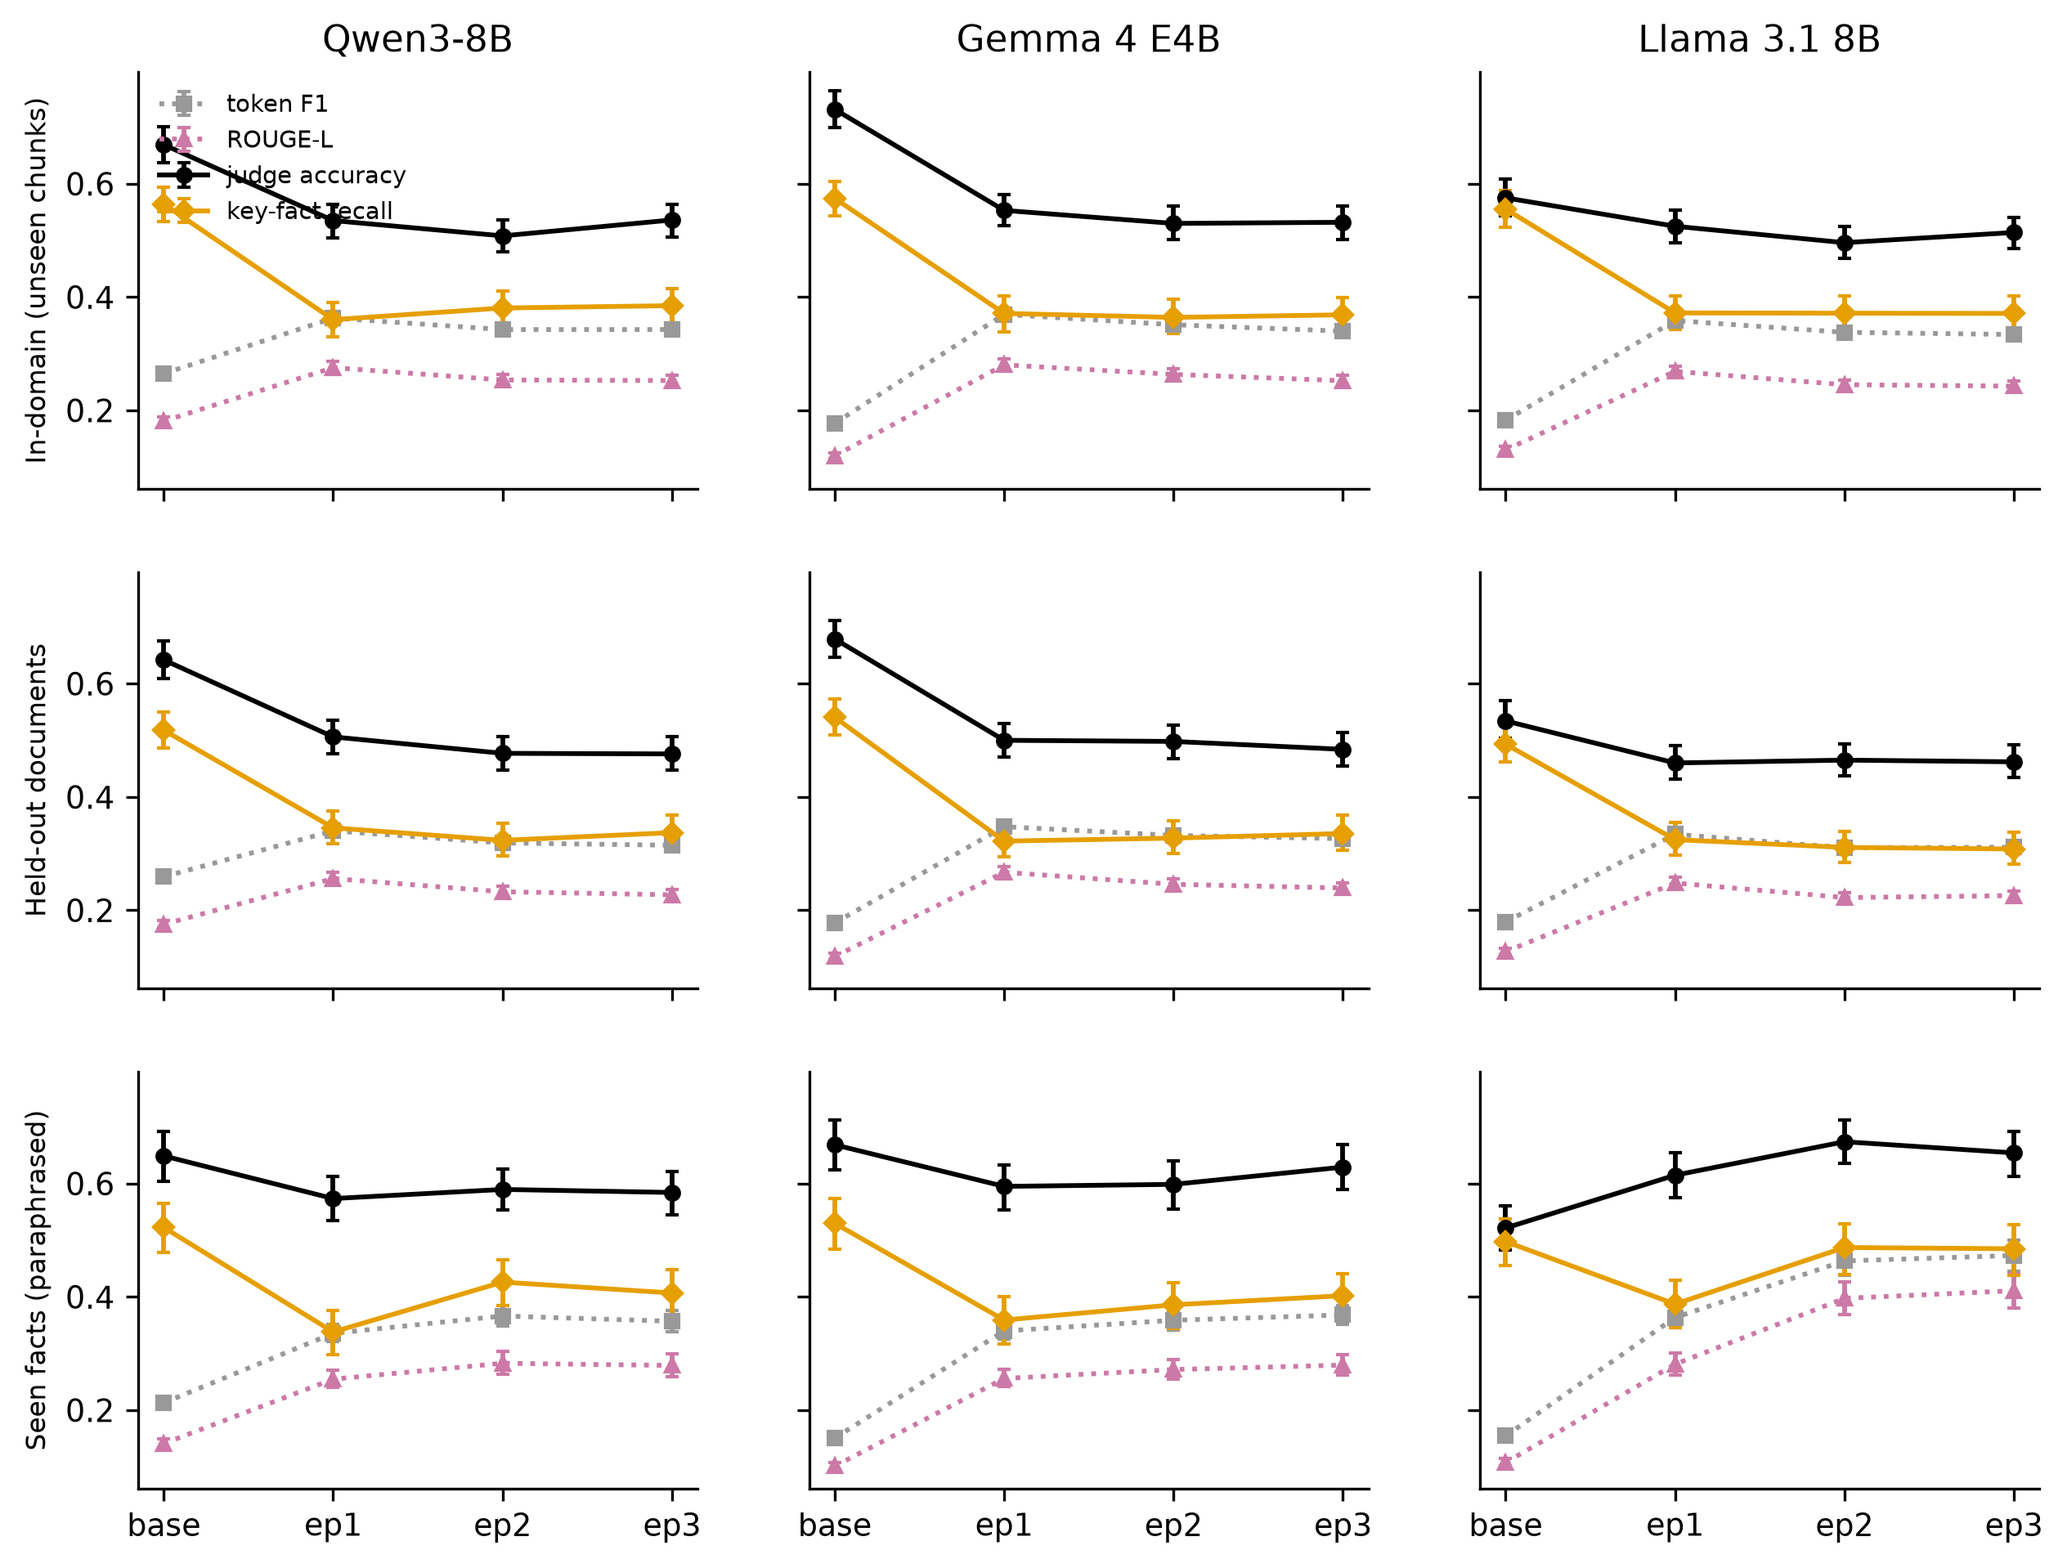
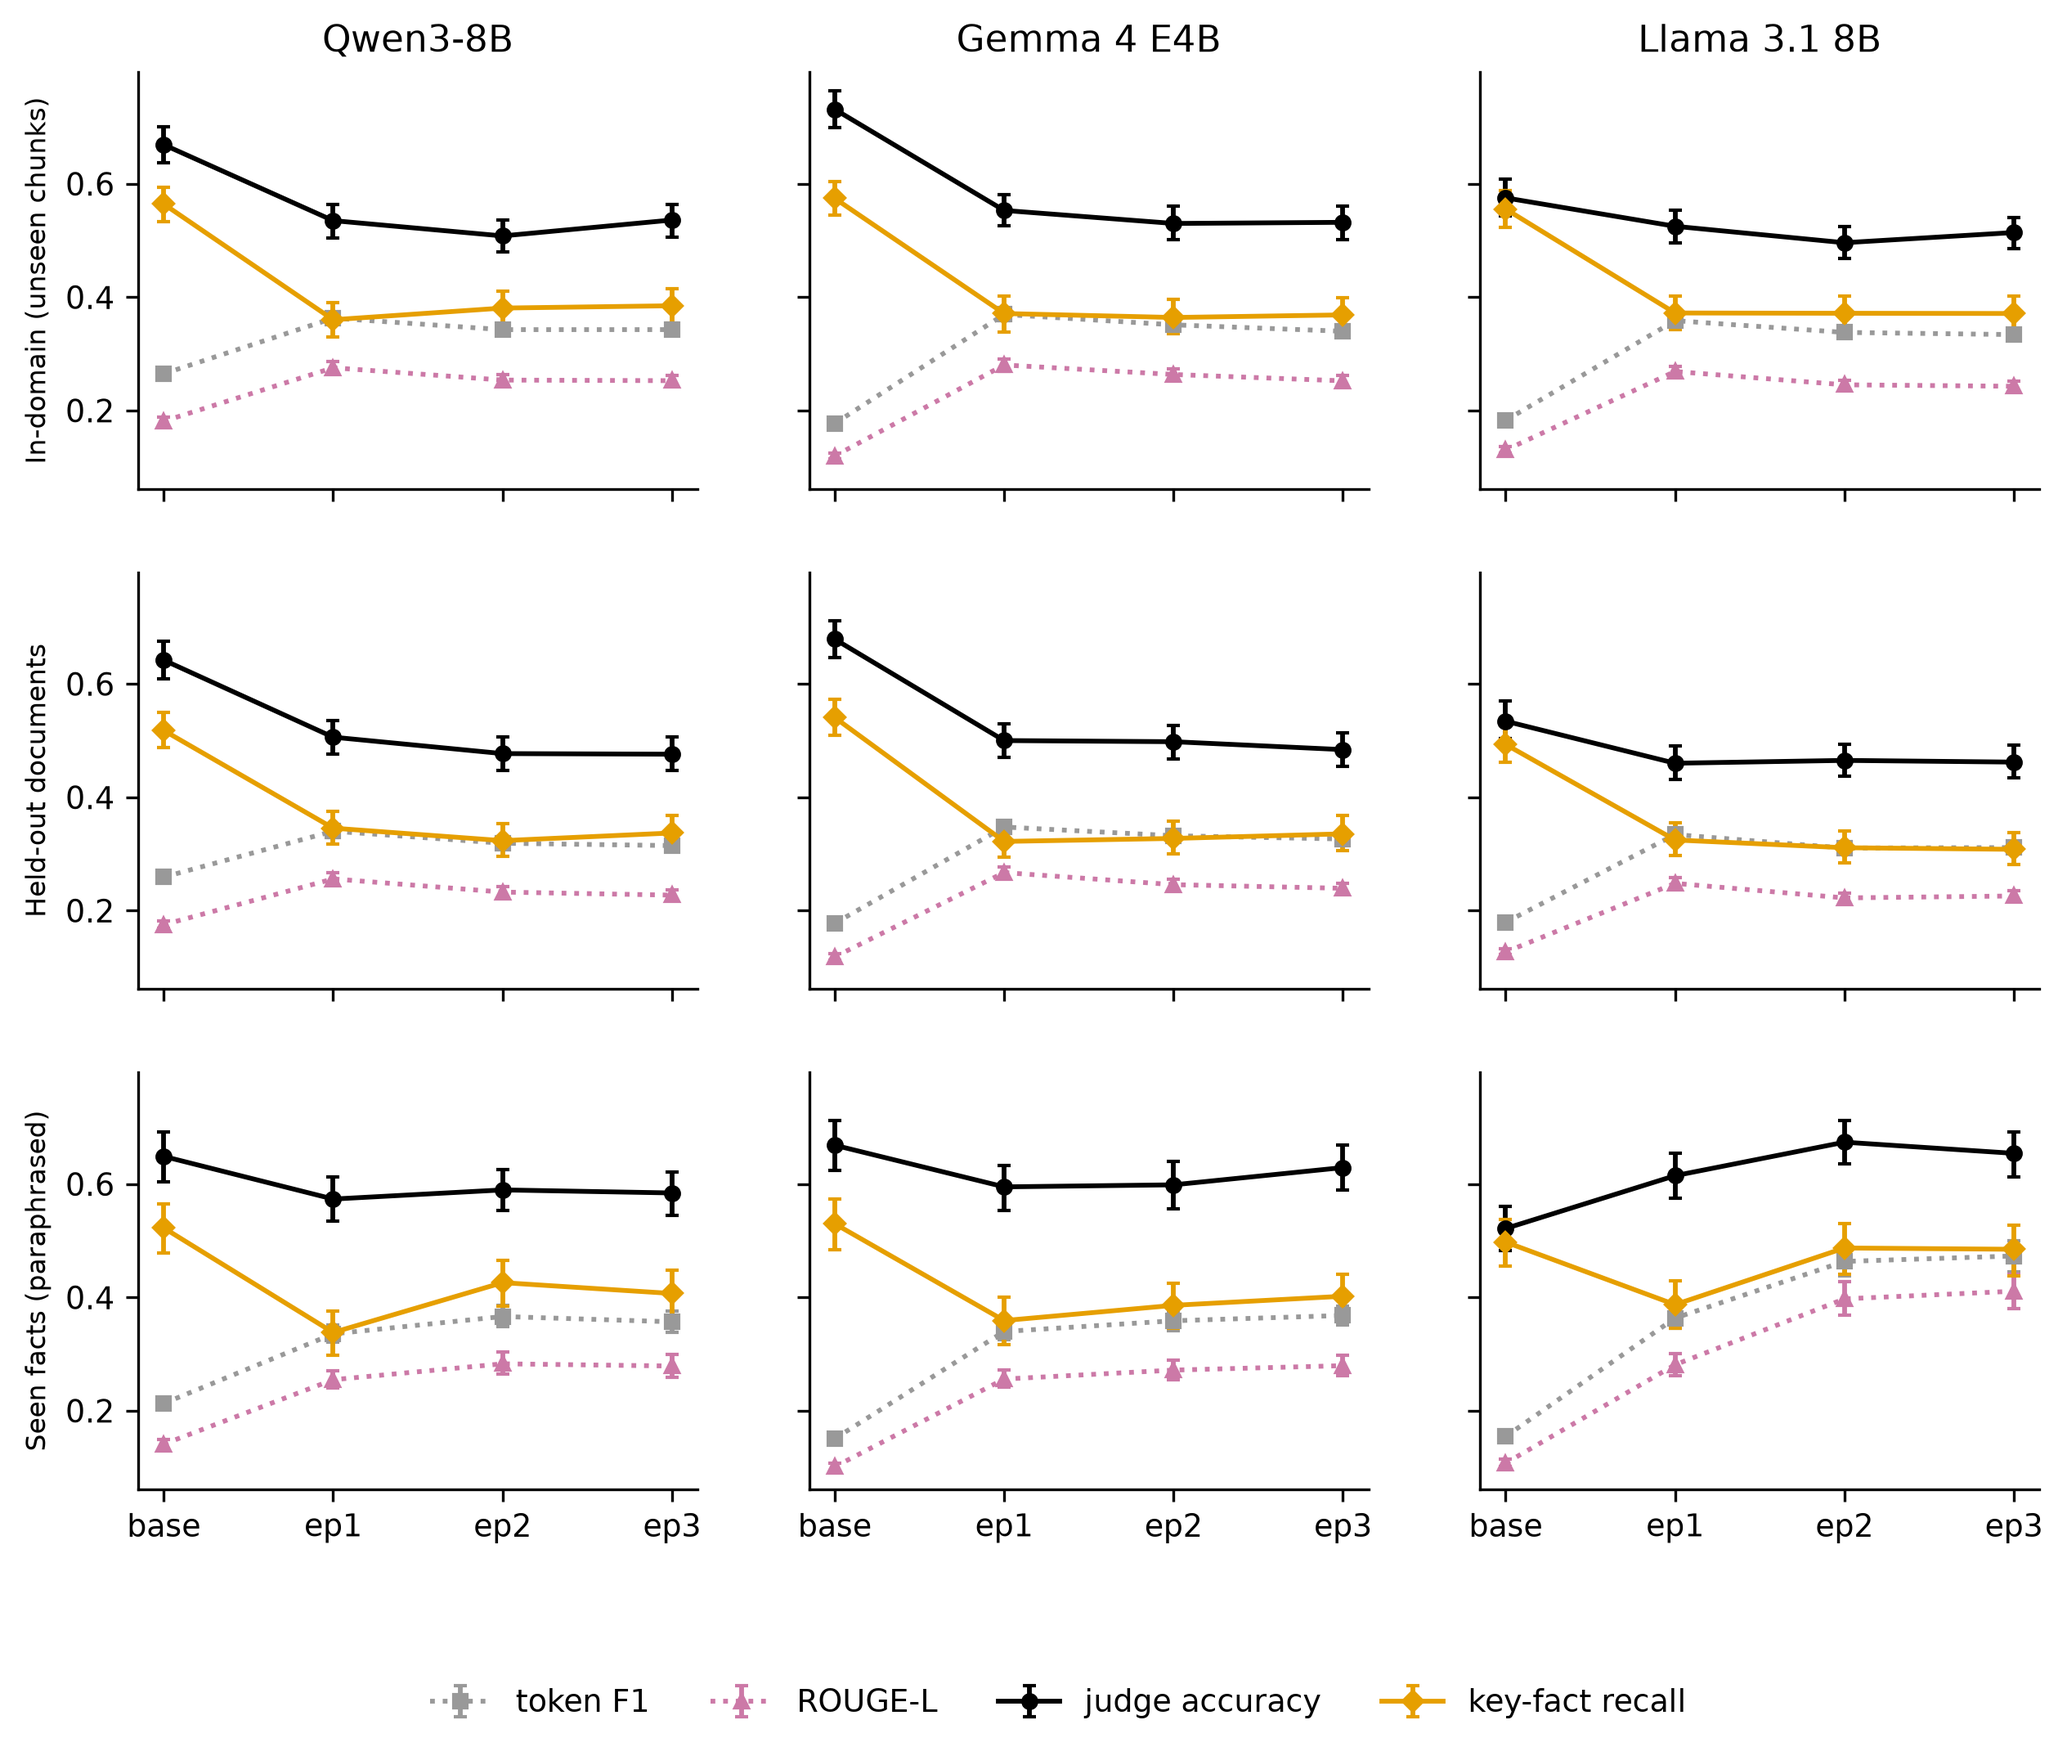
Local evaluation: STATUS power-limit history, F3 legend

diff --git a/src/local_pack.py b/src/local_pack.py
@@ -183,7 +183,8 @@ def fig3_style_vs_facts(d):
             if j == 0:
                 ax.set_ylabel(SPLIT_LABEL[s], fontsize=8)
             ax.set_xticks(range(4), ["base", "ep1", "ep2", "ep3"])
-    axes[0, 0].legend(loc="upper left", fontsize=7)
+    h, l = axes[0, 0].get_legend_handles_labels()
+    fig.legend(h, l, loc="lower center", ncol=4, bbox_to_anchor=(0.5, -0.03))
     fig.suptitle("Figure 3. Style metrics (token F1, ROUGE-L) vs factual metrics (judge accuracy, key-fact recall)",
                  y=1.0, fontsize=9)
     savefig(fig, "F3_style_vs_facts")
@@ -922,6 +923,14 @@ def gpu_lines():
                     pass
             elif "PAUSE" in line or "RESUME" in line:
                 ev.append(line)
+        lim, hist, prev = [], [], None
+        for line in g.read_text(errors="ignore").replace("\x00", "").splitlines()[1:]:
+            parts = line.split(",")
+            if len(parts) == 6 and parts[3] != prev:
+                hist.append(f"{parts[3]} W from {parts[0]}")
+                prev = parts[3]
+        if hist:
+            out.append("- Power-limit history (logs/gpu_temp.log): " + "; ".join(hist) + ".")
         if temps:
             mt, pt = max(temps), max(pw)
             out.append(f"- GPU (logs/gpu_temp.log, {len(temps)} readings since {temps[0][1]}): max {mt[0]:.0f} °C at "

diff --git a/results/local_eval/STATUS.md b/results/local_eval/STATUS.md
@@ -1,6 +1,6 @@
 # Local evaluation: STATUS
 
-_Written 2026-10-04 21:38 by `src/local_pack.py status`._
+_Written 2026-10-04 21:40 by `src/local_pack.py status`._
 
 | Stage | Result | Wall time (min) | Note |
 |---|---|---|---|
@@ -25,8 +25,9 @@ _Written 2026-10-04 21:38 by `src/local_pack.py status`._
 - S5b: Flan-T5-Large is the primary support checker (MiniCheck-7B covered only 0/67500 pairs)
 - S5b: reverted: MiniCheck-7B is the primary support checker again (rerun after the post-crash relaunch with the vLLM InternLM2 fix (src/vllm_shims/sitecustomize.py))
 - S8 (RAG baseline): skipped; the judge weights were deleted after S4 by design, so RAG answers could not be graded with the same calibrated judge in this run; re-downloading it (15 GB) plus the retrieval models does not fit the disk reserve next to MiniCheck-7B. Future work: closed-book vs RAG baseline (BM25 + dense + Qwen3-Reranker, recall@5 92%) graded by the same local judge and checkers
-- **WARNING (power limit):** 2026-10-04 21:16:15 power limit 420 W enforced (reported by both WSL and Windows nvidia-smi.exe; draw up to ~416 W under load). The 260 W cap set in Windows is not active (reset by the reboot?). Setting it from here failed: 'Insufficient Permissions' (needs an elevated Windows prompt: nvidia-smi -pl 260).
-- GPU (logs/gpu_temp.log, 64 readings since 2026-10-04 21:08:04): max 76 °C at 2026-10-04 21:26:19, max power draw 417 W at 2026-10-04 21:24:24; thermal pauses: 0.
+- **WARNING (power limit):** after the reboot the enforced power limit was 420 W (WSL and Windows nvidia-smi.exe agreed; draw up to ~416 W during S5b MiniCheck-7B, 21:14-21:26); setting 260 W from WSL failed (Insufficient Permissions). The 260 W cap became active at 21:26:47 and has held since (see the limit history below).
+- Power-limit history (logs/gpu_temp.log): 420.00 W from 2026-10-04 21:08:04; 260.00 W from 2026-10-04 21:26:47.
+- GPU (logs/gpu_temp.log, 68 readings since 2026-10-04 21:08:04): max 76 °C at 2026-10-04 21:26:19, max power draw 417 W at 2026-10-04 21:24:24; thermal pauses: 0.
 - The PC hard-crashed at about 12:13 (power cut under GPU load). Relaunched at 21:14 with scripts/resume_after_crash.sh logic: finished stages kept, S5b rerun with the vLLM InternLM2 fix, S5c finished its remaining pairs, S5d rerun with incremental writes.
 - Seed replication (seed 43, epoch 1; tmux `seeds`): finished steps none yet; see `results/seed_replication/SUMMARY.md`.
 
@@ -36,4 +37,4 @@ _Written 2026-10-04 21:38 by `src/local_pack.py status`._
 - `results/local_eval/SUMMARY.md`, `judge_calibration.md`, `keyfact_validation.md`, `metrics_by_system.csv`
 - Human review: `results/local_eval/keyfact_spotcheck.xlsx`, `results/paper_pack/human_eval_sheet.xlsx`
 
-- Git: pushed 9e0709f to origin at 2026-10-04 21:38:39.
+- Git: Part 1 pushed to origin at 2026-10-04 21:38 (b53d774); later seed-replication commits are local until the seed queue pushes at its end.

diff --git a/results/run_epochs/PROGRESS.md b/results/run_epochs/PROGRESS.md
@@ -32,7 +32,7 @@ Adapters: `models_epochs/<model>/epoch{1,2,3}/adapter`; logs: `models_epochs/<mo
 
 ## Local evaluation
 
-_Added 2026-10-04 21:38 by src/local_pack.py; local judge mistral-small-3.2-24b-awq; details in results/local_eval/SUMMARY.md and results/paper_pack/._
+_Added 2026-10-04 21:40 by src/local_pack.py; local judge mistral-small-3.2-24b-awq; details in results/local_eval/SUMMARY.md and results/paper_pack/._
 
 | Model | Variant | test_indomain judge acc / KF recall | test_heldout_docs judge acc / KF recall | test_seen_facts judge acc / KF recall |
 |---|---|---|---|---|
